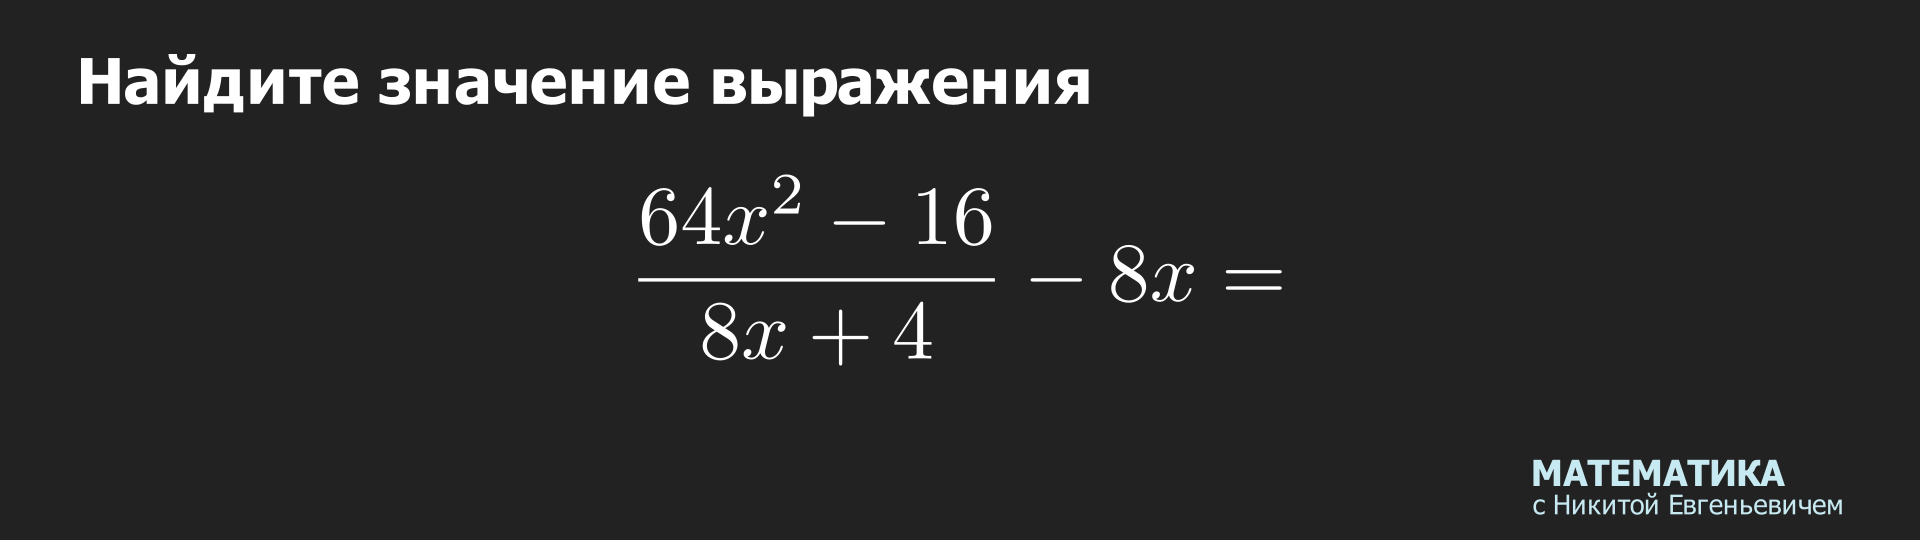
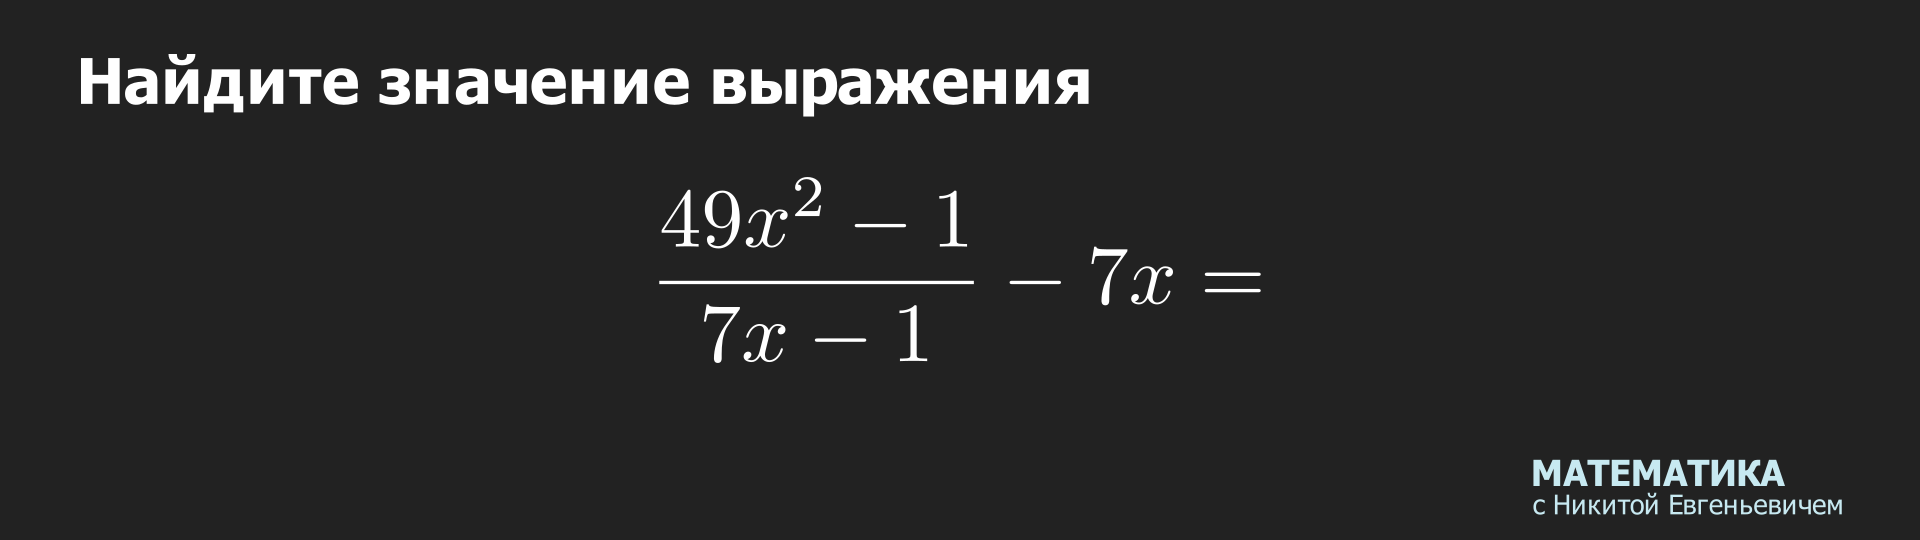
task_4_10 и task_4_11

Changed region(s): [[0.3125, 0.3259, 0.5312, 0.4741], [0.3438, 0.4444, 0.6562, 0.563], [0.3438, 0.563, 0.5, 0.6815]]

diff --git a/main.py b/main.py
@@ -475,3 +475,135 @@ class id0401009(Scene):
             i += 1
 
         f.close()
+
+def arithmetic_10():
+    bool = True
+    while bool:
+        a = random.randint(1, 9)
+        b = random.randint(1, 9) * random.choice([-1, 1])
+        c = random.randint(1, 15) * random.choice([-1, 1])
+
+        if (b > 0):
+            res = (2 * a * b)/ c
+        else:
+            res = (2 * a * b)/ c
+
+        if (res - int(res * 100) / 100) == 0:
+            bool = False
+            return a, b, c, res
+
+class id04010010(Scene):
+    def construct(self):
+
+        self.camera.background_color = DARKER_GRAY
+
+        f = open('answer_4_10.txt', 'w')
+
+        i = 0
+        while i < 10:
+            a, b, c, res = arithmetic_10()
+
+            if (a == 1):
+                a_str = 'x'
+                a_str_1 = 'x^2'
+            else:
+                a_str = f'{a}x'
+                a_str_1 = f'{a**2}x^2'
+
+            if (b == 1):
+                b_str = 'y'
+                b_str_1 = 'y^2'
+            elif (b == -1):
+                b_str = '-y'
+                b_str_1 = 'y^2'
+            else:
+                b_str = f'{b}y'
+                b_str_1 = f'{b ** 2}y^2'
+
+            if (c == 1):
+                c_str = 'xy'
+            elif (c == -1):
+                c_str = '-xy'
+            else:
+                c_str = f'{c}xy'
+
+
+            if(b > 0):
+                a_b_2 = a_str + "+" + b_str
+            else:
+                a_b_2 = a_str + b_str
+
+            if(c > 0):
+                t = MathTex("\\left(","\\left(", a_b_2, "\\right)","^2", "-", a_str_1, "-", b_str_1, "\\right)",":", c_str, "= ", font_size=60)
+            else:
+                t = MathTex("\\left(","\\left(", a_b_2, "\\right)", "^2", "-", a_str_1, "-", b_str_1,"\\right)", ":", "\\left(", c_str, "\\right)", "= ",
+                            font_size=60)
+
+            if (res - int(res)) == 0:
+                res = round(res)
+
+            f.write(f'{res}\n')
+
+            self.add(t, s, s3)
+            self.wait(1 / 60)
+            self.clear()
+            i += 1
+
+        f.close()
+
+def arithmetic_11():
+    bool = True
+    while bool:
+        a = random.randint(1, 10)
+        b = random.randint(1, 19)
+
+        c = random.randint(2, 10) * random.choice([-1, 1])
+        x = 10 * random.randint(5, 15)
+
+        d = random.randint(3, 50) * random.choice([-1, 1])
+
+        res = -(b**2) + (c * x) + d
+
+        if (res - int(res * 10) / 10) == 0:
+            bool = False
+            return a, b, c, x, d, res
+
+class id04010011(Scene):
+    def construct(self):
+
+        self.camera.background_color = DARKER_GRAY
+
+        f = open('answer_4_11.txt', 'w')
+
+        i = 0
+        while i < 3:
+            a, b, c, x, d, res = arithmetic_11()
+
+            if (a == 1):
+                a_str = 'x'
+                a_str_1 = 'x^2'
+            else:
+                a_str = f'{a}x'
+                a_str_1 = f'{a**2}x^2'
+
+            if(c > 0):
+                c_str = f'+{c}x'
+            else:
+                c_str = f'{c}x'
+
+            if(d > 0):
+                t = MathTex("\\left(", a,"x", "-", b, "\\right)", "\\left(", a,"x", "+", b, "\\right)","-", a**2, "x^2", c_str,"+", d, ", при x = ", x, font_size=60)
+            else:
+                t = MathTex("\\left(", a,"x", "-", b, "\\right)", "\\left(", a,"x", "+", b, "\\right)","-", a**2, "x^2", c_str, d, "fd x = ", x, font_size=60)
+
+            if (res - int(res)) == 0:
+                res = round(res)
+
+            f.write(f'{res}\n')
+
+            self.add(t, s, s3)
+            self.wait(1 / 60)
+            self.clear()
+            i += 1
+
+        f.close()

diff --git a/test_TASK.py b/test_TASK.py
@@ -1,22 +1,23 @@
 import random
-def arithmetic_9():
+def arithmetic_10():
     bool = True
     while bool:
         a = random.randint(1, 9)
         b = random.randint(1, 9) * random.choice([-1, 1])
+        c = random.randint(1, 15) * random.choice([-1, 1])
 
         if (b > 0):
-            res = - b
+            res = (2 * a * b)/ c
         else:
-            res = b * -1
+            res = -2 * a * b)/ c
 
         if (res - int(res * 100) / 100) == 0:
             bool = False
-            return a, b, res
+            return a, b, c, res
 
 i = 0
 while i < 15:
-    a, b, res = arithmetic_9()
+    a, b, c, res = arithmetic_10()
 
-    print ( f' ( {a} {b} )= {res}')
+    print ( f' {a} {b} {c}={res}')
     i += 1
